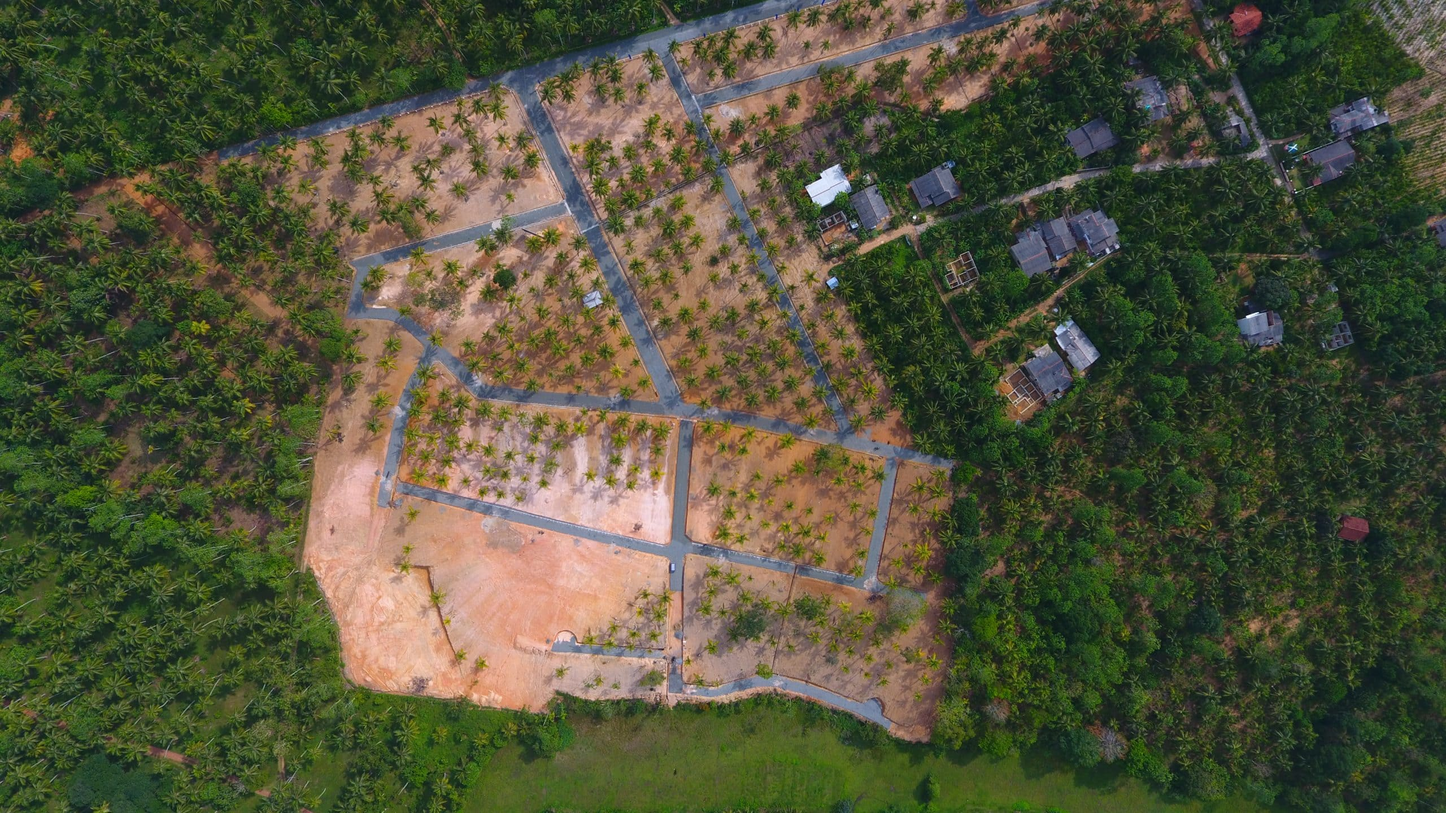
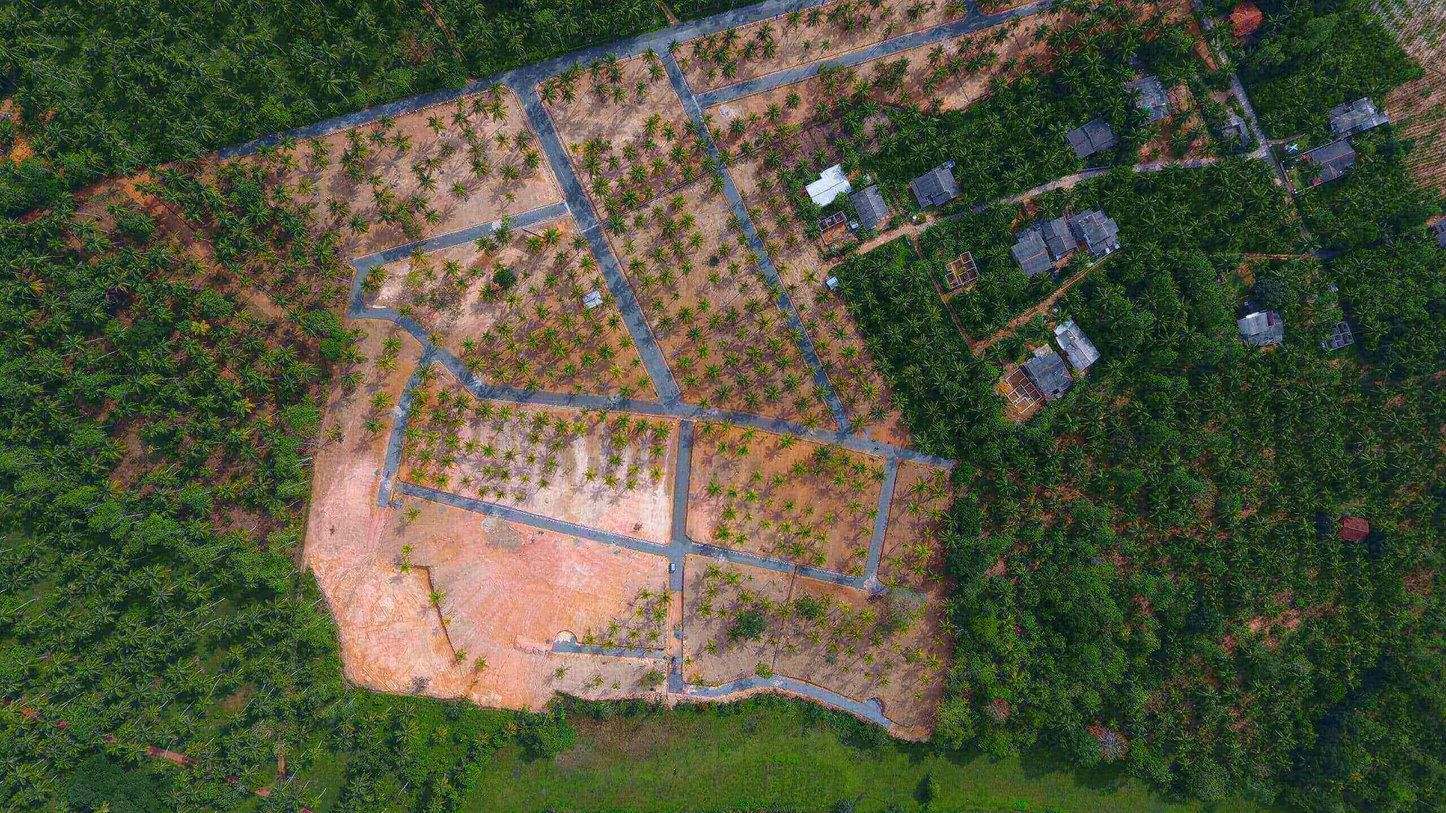
Update hero image

diff --git a/page.jsx b/page.jsx
@@ -1,121 +1,113 @@
-import Image from "next/image";
-import Advertisement from "./components/elements/advertisement/Advertisement";
-import { getAdvertisements } from "@/actions/adActions";
-import Link from "next/link";
-import { useEffect } from "react";
-import { toast } from "sonner";
+import Image from 'next/image';
+import Advertisement from './components/elements/advertisement/Advertisement';
+import { getAdvertisements } from '@/actions/adActions';
+import Link from 'next/link';
+import { useEffect } from 'react';
+import { toast } from 'sonner';
 
 export default function Home() {
-    const [advertisements, setAdvertisements] = useState(null);
-    useEffect(() => {
-        const loading = async () => {
-            try {
-                const { advertisements } = await getAdvertisements({
-                    pageNumber: 1,
-                    pageSize: 3,
-                });
-                setAdvertisements(advertisements);
-            } catch (error) {
-                toast.error(error.message);
-            }
-        };
-        loading();
-    }, []);
+  const [advertisements, setAdvertisements] = useState(null);
+  useEffect(() => {
+    const loading = async () => {
+      try {
+        const { advertisements } = await getAdvertisements({
+          pageNumber: 1,
+          pageSize: 3,
+        });
+        setAdvertisements(advertisements);
+      } catch (error) {
+        toast.error(error.message);
+      }
+    };
+    loading();
+  }, []);
 
-    return (
-        <>
-            <section>
-                <div
-                    className="relative w-auto md:h-screen mx-auto"
-                    id="hero-banner"
-                >
-                    <Image
-                        className="absolute object-cover w-full h-full"
-                        src="/hero-image.jpg"
-                        alt=""
-                        width={2560}
-                        height={1440}
-                    />
-                    <div className="absolute top-0 w-full h-full bg-black opacity-50"></div>
-                    <div className="relative z-10 flex flex-col justify-center items-center h-screen text-center text-white gap-10">
-                        <h1 className="text-2xl font-bold md:text-5xl text-custom-green-200">
-                            Land Awaits Your Imagination
-                        </h1>
-                        <p className="w-1/3 mt-4 md:text-lg text-wrap text-justify leading-relaxed">
-                            Welcome to a realm where your imagination knows no
-                            bounds.Our collection of pristine land parcels
-                            invites you to paint your dreams upon nature&apos;s
-                            canvas. Whether you envision a tranquil retreat
-                            nestled among trees or aspire to build your legacy
-                            in an urban landscape, our diverse listings cater to
-                            your unique aspirations. Explore rolling hills, vast
-                            plains, or scenic waterfronts each plot holds the
-                            promise of your vision. Begin your journey here,
-                            where land becomes a space for your creativity to
-                            flourish and your dreams to take shape.
-                        </p>
-                        <div className="">
-                            <Link
-                                className="mt-8 px-8 py-4 bg-gray-700 text-white font-bold text-xl rounded-md mr-5"
-                                href={"/viewAll"}
-                            >
-                                Explore Land
-                            </Link>
-                            <Link
-                                className="mt-8 px-8 py-4 bg-custom-green-100 text-white font-bold text-xl rounded-md"
-                                href={"/login"}
-                            >
-                                Claim your Spot{" "}
-                            </Link>
-                        </div>
-                    </div>
-                </div>
-            </section>
-            {/* End of the hero section */}
+  return (
+    <>
+      <section>
+        <div className="relative w-auto md:h-screen mx-auto" id="hero-banner">
+          <Image
+            className="absolute object-cover w-full h-full"
+            src="/hero-image.jpg"
+            alt="landpulse-hero-image"
+            fill
+          />
+          <div className="absolute top-0 w-full h-full bg-black opacity-50"></div>
+          <div className="relative z-10 flex flex-col justify-center items-center h-screen text-center text-white gap-10">
+            <h1 className="text-2xl font-bold md:text-5xl text-custom-green-200">
+              Land Awaits Your Imagination
+            </h1>
+            <p className="w-1/3 mt-4 md:text-lg text-wrap text-justify leading-relaxed">
+              Welcome to a realm where your imagination knows no bounds.Our
+              collection of pristine land parcels invites you to paint your
+              dreams upon nature&apos;s canvas. Whether you envision a tranquil
+              retreat nestled among trees or aspire to build your legacy in an
+              urban landscape, our diverse listings cater to your unique
+              aspirations. Explore rolling hills, vast plains, or scenic
+              waterfronts each plot holds the promise of your vision. Begin your
+              journey here, where land becomes a space for your creativity to
+              flourish and your dreams to take shape.
+            </p>
+            <div className="">
+              <Link
+                className="mt-8 px-8 py-4 bg-gray-700 text-white font-bold text-xl rounded-md mr-5"
+                href={'/viewAll'}
+              >
+                Explore Land
+              </Link>
+              <Link
+                className="mt-8 px-8 py-4 bg-custom-green-100 text-white font-bold text-xl rounded-md"
+                href={'/login'}
+              >
+                Claim your Spot{' '}
+              </Link>
+            </div>
+          </div>
+        </div>
+      </section>
+      {/* End of the hero section */}
 
-            {/* Starting featured posts */}
-            <section className="flex items-center justify-center">
-                <div className="w-full max-w-6xl">
-                    <div className="mt-10">
-                        <h1 className="text-2xl md:text-4xl font-bold text-center text-custom-green-100">
-                            Your Dream Awaits,
-                            <br />
-                            Explore Vast Landscapes for Your Vision.
-                        </h1>
-                        <p className="mt-5 text-justify text-lg mx-4">
-                            Embark on a journey to find the canvas for your
-                            dreams midst sprawling landscapes that await your
-                            vision. Our curated selection of expansive terrains
-                            offers a tapestry of possibilities, ready to be
-                            shaped according to your desires. Whether it&apos;s
-                            a serene retreat enveloped by nature&apos;s embrace
-                            or a bustling expanse primed for innovation, our
-                            diverse array of land listings caters to every
-                            aspiration. Unearth the ideal backdrop for your
-                            dreams, where endless horizons meet limitless
-                            potential. Begin your exploration today and discover
-                            the space that resonates with your unique vision.
-                        </p>
-                    </div>
-                    <div className="w-full flex flex-wrap justify-center items-center gap-10">
-                        {advertisements?.map((advertisement) => (
-                            <Advertisement
-                                key={advertisement._id}
-                                advertisement={advertisement}
-                            />
-                        ))}
-                    </div>
-                    <div className="flex items-center justify-center h-20 space-x-2">
-                        <Link
-                            className="bg-custom-green-100 hover:bg-lime-900 text-white font-bold py-2 px-4 rounded"
-                            href={`/viewAll`}
-                        >
-                            Next
-                        </Link>
-                    </div>
-                </div>
-            </section>
-            {/* Ending featured posts */}
-        </>
-    );
+      {/* Starting featured posts */}
+      <section className="flex items-center justify-center">
+        <div className="w-full max-w-6xl">
+          <div className="mt-10">
+            <h1 className="text-2xl md:text-4xl font-bold text-center text-custom-green-100">
+              Your Dream Awaits,
+              <br />
+              Explore Vast Landscapes for Your Vision.
+            </h1>
+            <p className="mt-5 text-justify text-lg mx-4">
+              Embark on a journey to find the canvas for your dreams midst
+              sprawling landscapes that await your vision. Our curated selection
+              of expansive terrains offers a tapestry of possibilities, ready to
+              be shaped according to your desires. Whether it&apos;s a serene
+              retreat enveloped by nature&apos;s embrace or a bustling expanse
+              primed for innovation, our diverse array of land listings caters
+              to every aspiration. Unearth the ideal backdrop for your dreams,
+              where endless horizons meet limitless potential. Begin your
+              exploration today and discover the space that resonates with your
+              unique vision.
+            </p>
+          </div>
+          <div className="w-full flex flex-wrap justify-center items-center gap-10">
+            {advertisements?.map((advertisement) => (
+              <Advertisement
+                key={advertisement._id}
+                advertisement={advertisement}
+              />
+            ))}
+          </div>
+          <div className="flex items-center justify-center h-20 space-x-2">
+            <Link
+              className="bg-custom-green-100 hover:bg-lime-900 text-white font-bold py-2 px-4 rounded"
+              href={`/viewAll`}
+            >
+              Next
+            </Link>
+          </div>
+        </div>
+      </section>
+      {/* Ending featured posts */}
+    </>
+  );
 }
